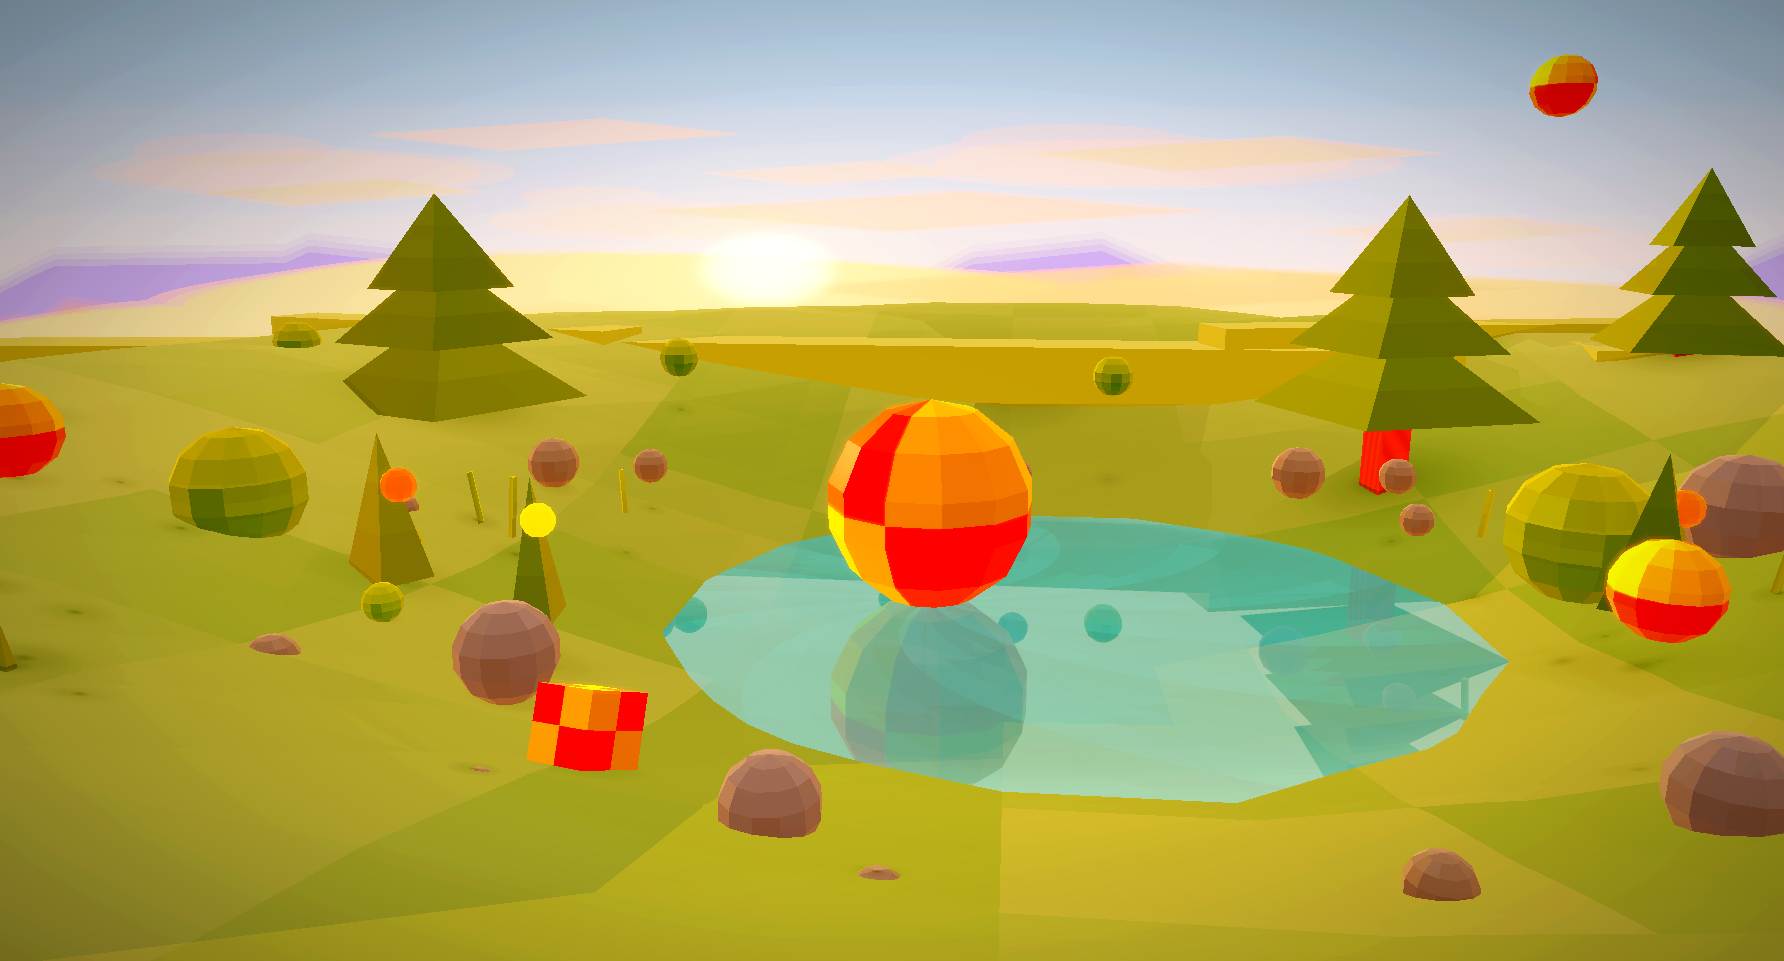
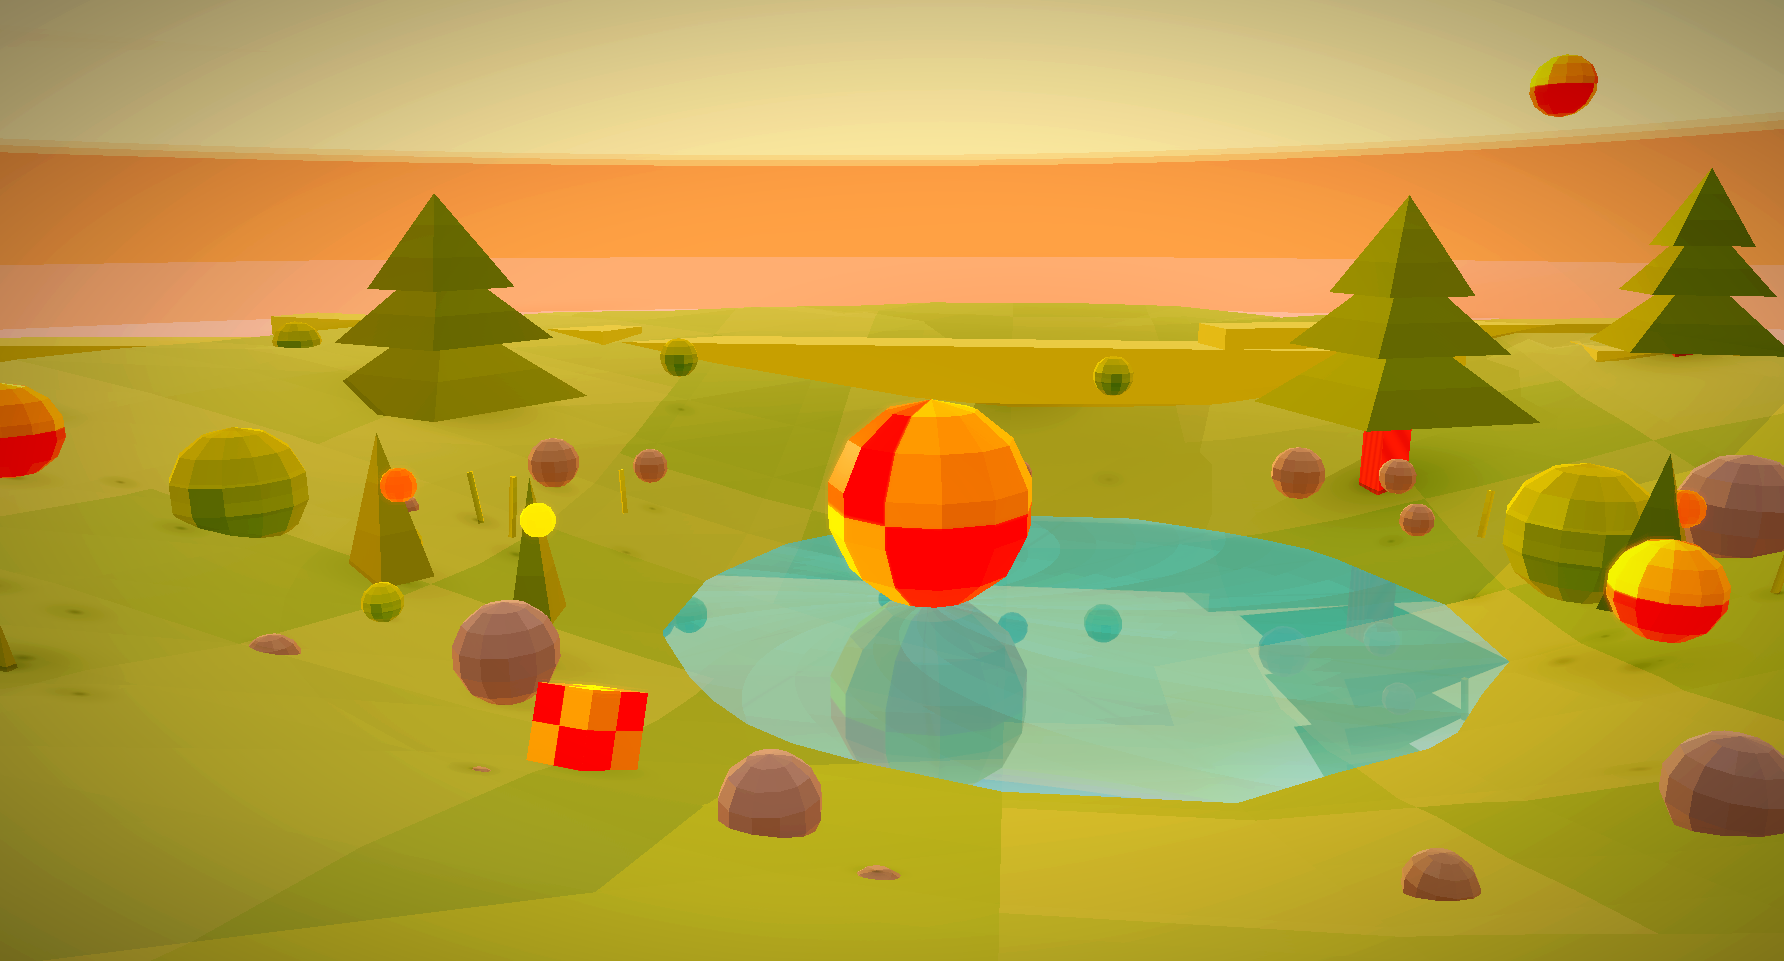
render: anchor low-poly sky to camera rays
Feed the cinematic sky pass the active view/projection matrices and derive low-poly sky coordinates from each pixel's world ray. This makes the procedural mountains, sun glow, and cloud cards behave like a backdrop when the camera rotates instead of staying glued to raw screen UVs.

Keep the GL and HLSL sky shaders aligned, and pass the reflected view during the water reflection sky pass so reflection captures use the same backdrop orientation. Refresh the style 12 sceneshot from the new camera-stable low-poly sky frame.

Validation: not run; deferred because the user requested no validation until the final pass. Build/smoke: tools\validate_build.bat Profile succeeded with 0 warnings/0 errors; GL and DX11 single-scene screenshot smoke captures both produced images.

diff --git a/SkullbonezSource/SkullbonezRunRender.cpp b/SkullbonezSource/SkullbonezRunRender.cpp
@@ -124,7 +124,7 @@ void SkullbonezRun::ResetCinematicRenderResources()
 }
 
 
-void SkullbonezRun::RenderCinematicSky()
+void SkullbonezRun::RenderCinematicSky( const Matrix4& view, const Matrix4& projection )
 {
     const CinematicRenderConfig& cinematic = ActiveCinematicConfig();
     if ( !cinematic.skyAtmosphereEnabled || !m_systems.skyAtmosphereShader || m_systems.postQuadVB == 0 )
@@ -149,6 +149,8 @@ void SkullbonezRun::RenderCinematicSky()
     m_systems.skyAtmosphereShader->SetVec3( "uSunColor", cinematic.sunColorR, cinematic.sunColorG, cinematic.sunColorB );
     m_systems.skyAtmosphereShader->SetVec3( "uHorizonColor", cinematic.skyHorizonR, cinematic.skyHorizonG, cinematic.skyHorizonB );
     m_systems.skyAtmosphereShader->SetVec3( "uZenithColor", cinematic.skyZenithR, cinematic.skyZenithG, cinematic.skyZenithB );
+    m_systems.skyAtmosphereShader->SetMat4( "uInvView", view.Inverse() );
+    m_systems.skyAtmosphereShader->SetMat4( "uInvProjection", projection.Inverse() );
     m_systems.skyAtmosphereShader->SetInt( "uSkyMode", cinematic.skyMode );
     m_systems.skyAtmosphereShader->SetVec4( "uCloudParams",
                                             cinematic.cloudCoverage,
@@ -527,7 +529,7 @@ void SkullbonezRun::DrawPrimitives()
         PROFILE_GPU_BEGIN( "Frame/Render/Reflection/Skybox" );
         if ( cinematicRender && ActiveCinematicConfig().skyAtmosphereEnabled )
         {
-            RenderCinematicSky();
+            RenderCinematicSky( reflView, proj );
         }
         else
         {
@@ -574,7 +576,7 @@ void SkullbonezRun::DrawPrimitives()
         PROFILE_GPU_BEGIN( "Frame/Render/CinematicSky" );
         if ( ActiveCinematicConfig().skyAtmosphereEnabled )
         {
-            RenderCinematicSky();
+            RenderCinematicSky( baseView, proj );
         }
         else
         {

diff --git a/SkullbonezSource/SkullbonezRun.h b/SkullbonezSource/SkullbonezRun.h
@@ -354,7 +354,8 @@ class SkullbonezRun
     bool IsCinematicRenderingEnabled() const;                                                                                          // True when the HDR/post stack should wrap the main scene
     void EnsureCinematicRenderResources();                                                                                             // Lazily builds/resizes HDR scene target and post resources
     void ResetCinematicRenderResources();                                                                                              // Releases HDR/post resources before backend teardown
-    void RenderCinematicSky();                                                                                                         // Draws procedural HDR sunset sky into the active cinematic target
+    void RenderCinematicSky( const Math::Transformation::Matrix4& view,
+                             const Math::Transformation::Matrix4& projection );                                                        // Draws procedural HDR sunset sky into the active cinematic target
     bool RenderCinematicVolumetricLight();                                                                                             // Renders depth-aware low-resolution light shafts into the volumetric buffer
     void ResolveCinematicSceneToBackbuffer( bool sceneAlreadyUnbound, bool volumetricReady );                                          // Tonemaps HDR scene target to the backbuffer
     void SetInitialOpenGlState();                                                                                                      // Sets the initial state of the OpenGL evironment
